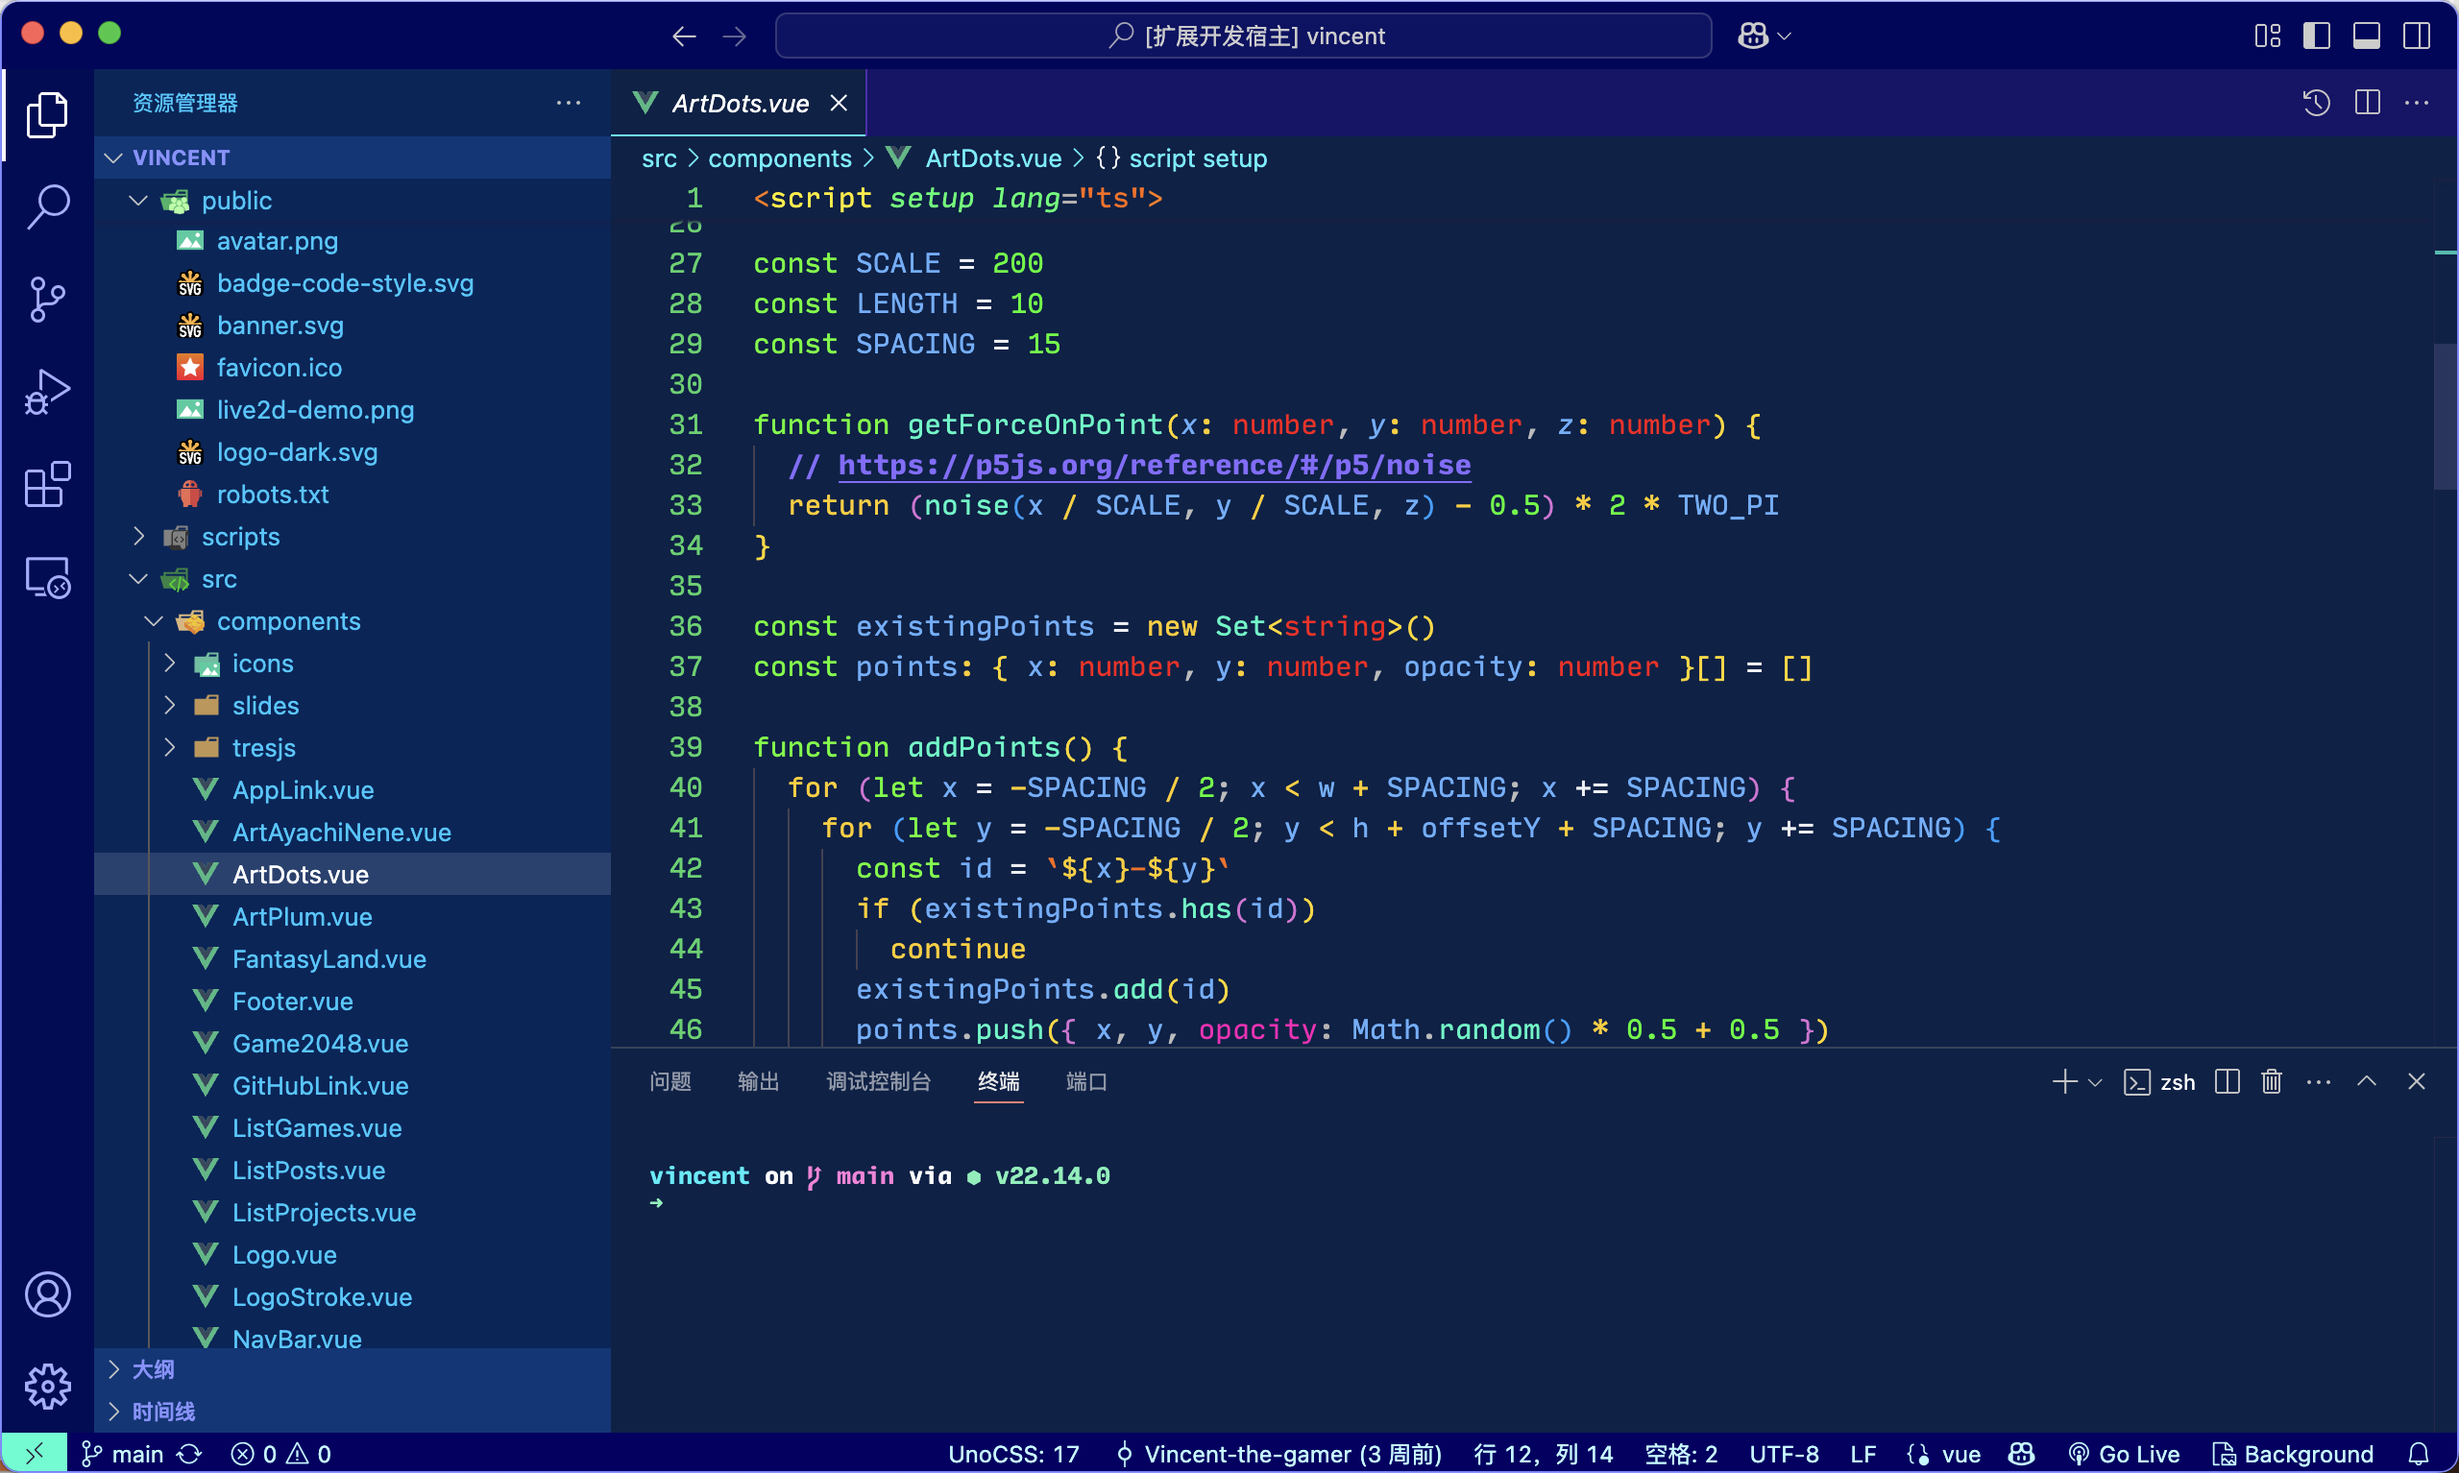
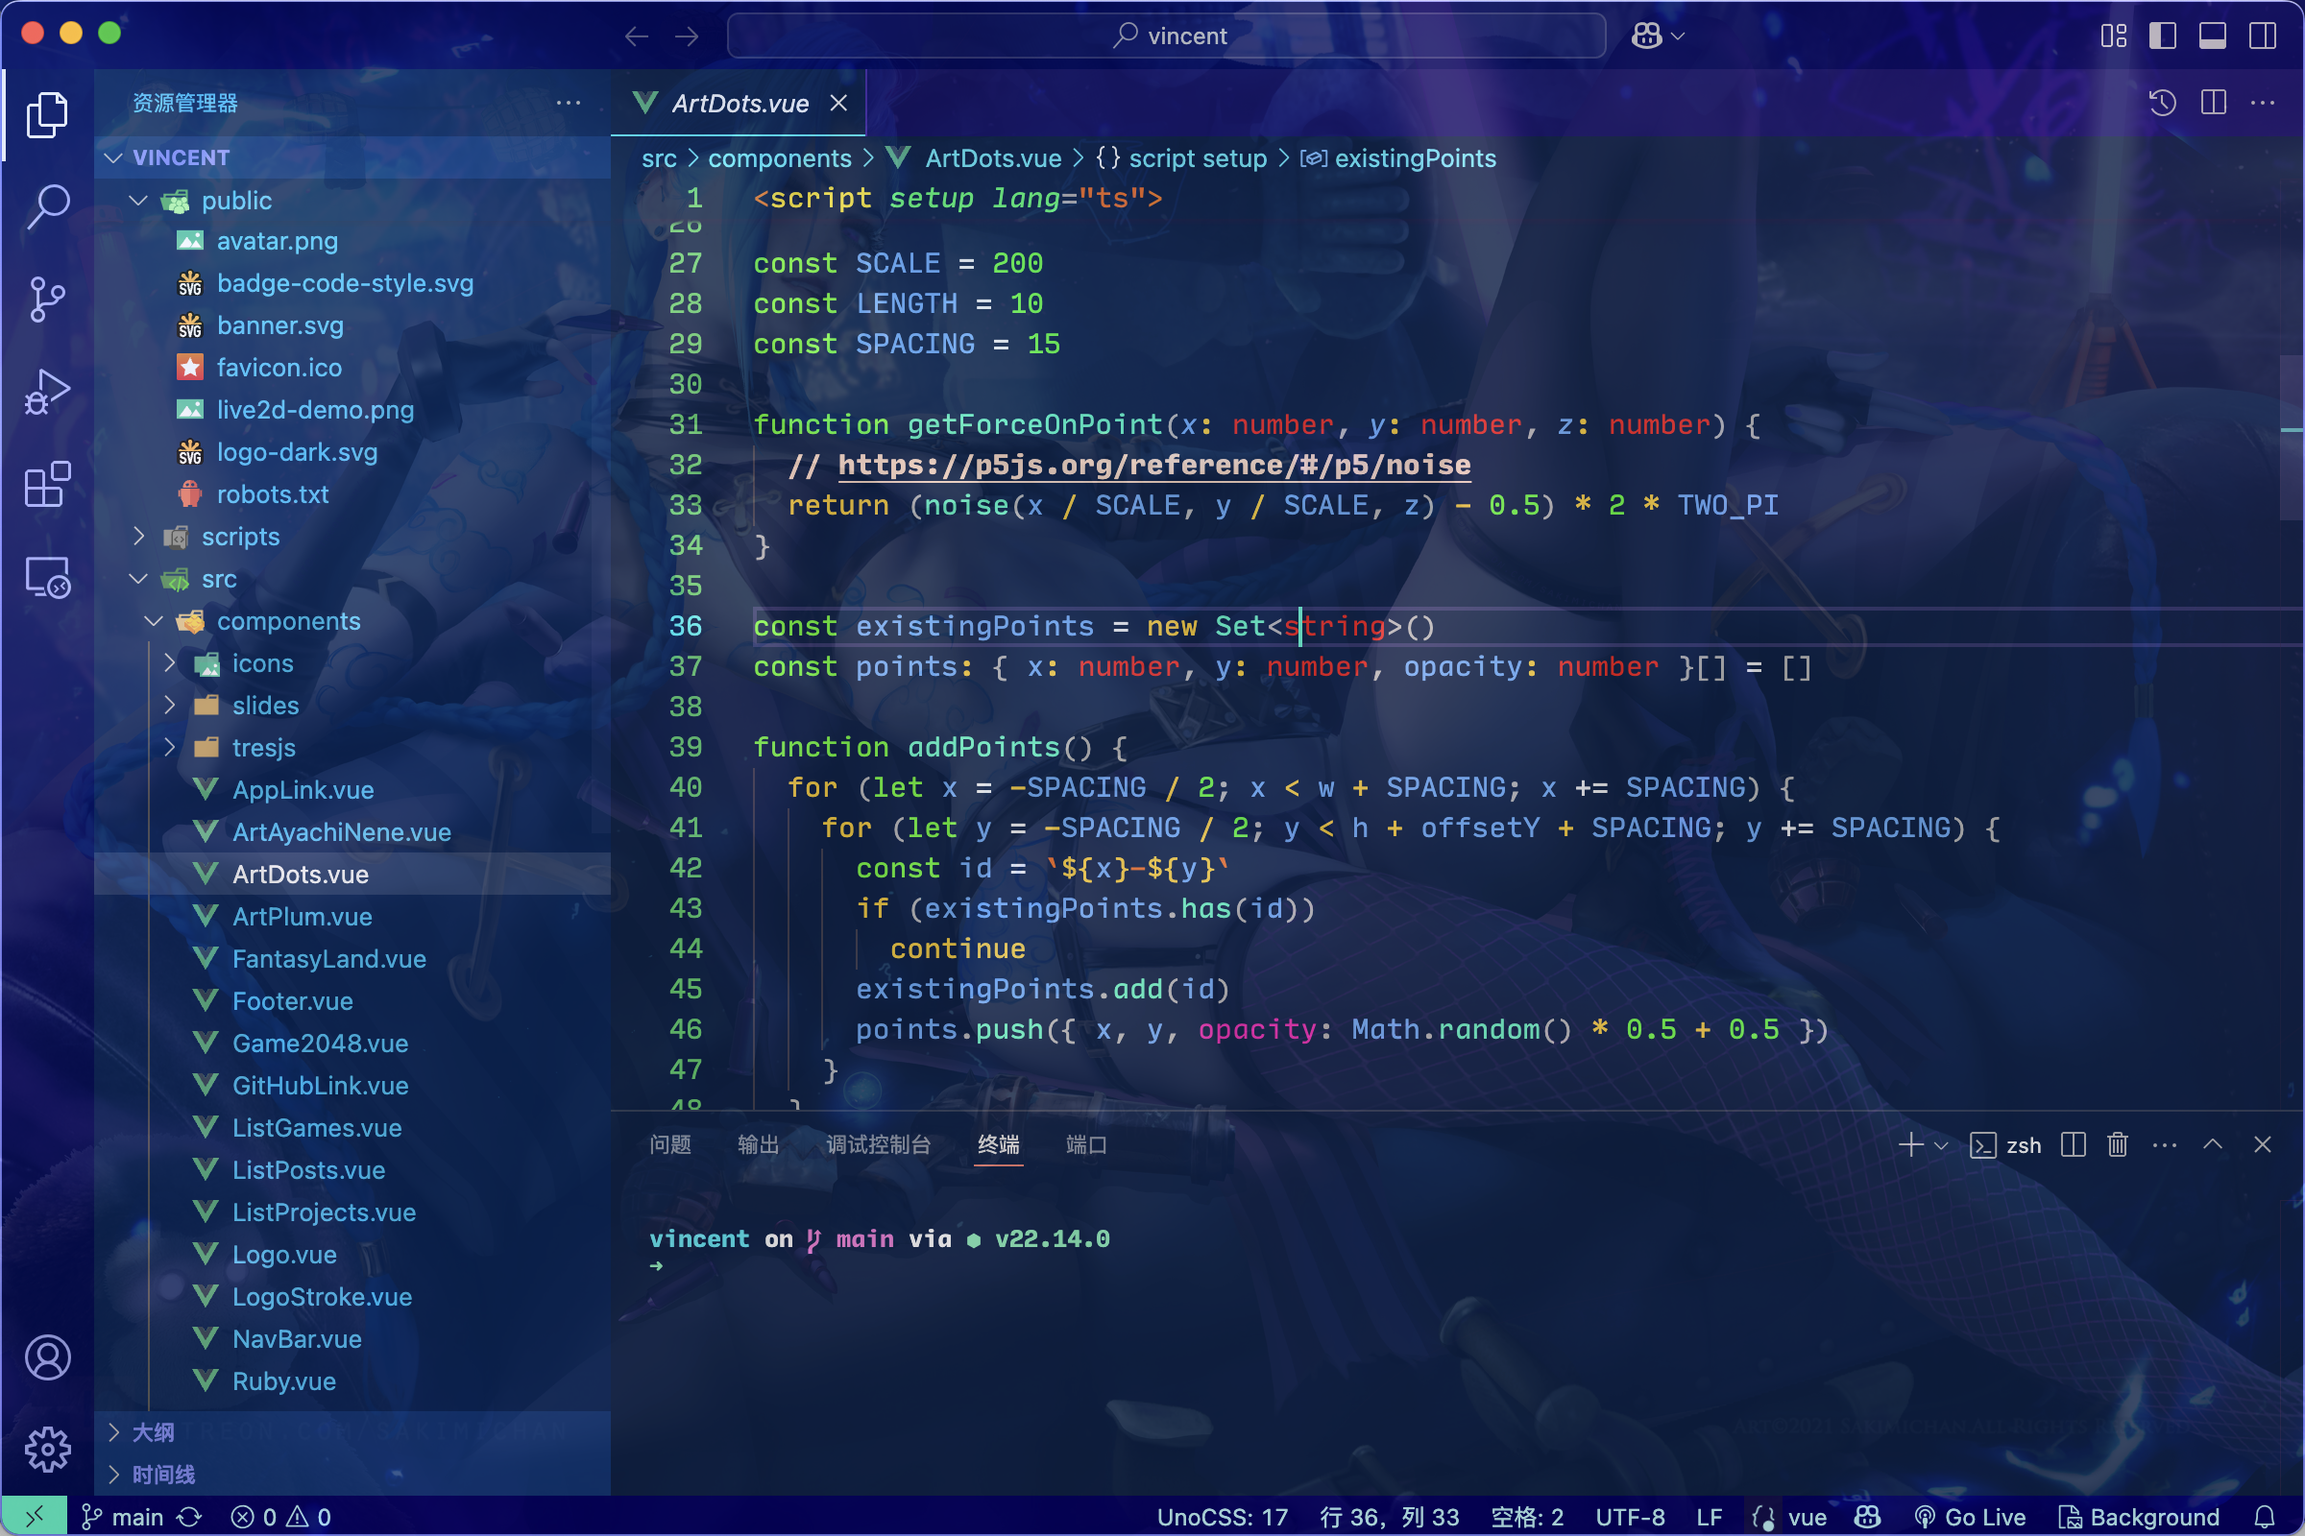
chore: readme.

diff --git a/README.md b/README.md
@@ -53,6 +53,39 @@ Then, run `Enable Jinx Glowing`
 
 And happy hacking~~~ ☆´∀｀☆
 
+# Add a background image
+
+Please use [Background](https://github.com/shalldie/vscode-background) extension.
+
+Download pic from the top of this document, then add these codes to `settings.json`.
+```json
+"background.fullscreen": {
+    "images": ["file:///path/to/pic"],
+    "opacity": 0.18,
+    "size": "cover",
+    "position": "center",
+    "interval": 0
+},
+"background.editor": {
+    "background-position": "100% 100%",
+    "background-size": "cover",
+    "opacity": 0.3
+},
+```
+
+Additionally, change your comment color.
+```json
+"editor.tokenColorCustomizations": {
+    "comments": {
+        "foreground": "#ffd9c4",
+        "fontStyle": "bold"
+    }
+},
+```
+
+Then your Code will look like my preview pic.
+
+
 # Preview
 
 ## Normal

diff --git a/CHANGELOG.md b/CHANGELOG.md
@@ -1,29 +1,2 @@
-# V0.1.10
-- Modify theme color.
-
-# V0.1.9
-- Enhance glowing effect.
-
-# V0.1.8
-- Bundled `Custom CSS and JS Loader` into `Jinx`.
-
-# V0.1.6
-- Modify theme color.
-
-# V0.1.5
-- Replace green texts. 
-- Enhance tab effect.
-
-# V0.1.4
-- Kawaii Pink Glowing Effect.（づ￣3￣）づ╭❤～
-
-# V0.1.3
-- Enhance Glowing Effect.
-- Typescriptify.
-
-# V0.1.2
-- Add Glowing Codes.
-
-# V0.1.1
-- Add `CHANGELOG.md`
-- Fix bugs.
+# V0.1.0
+- Initial release.
